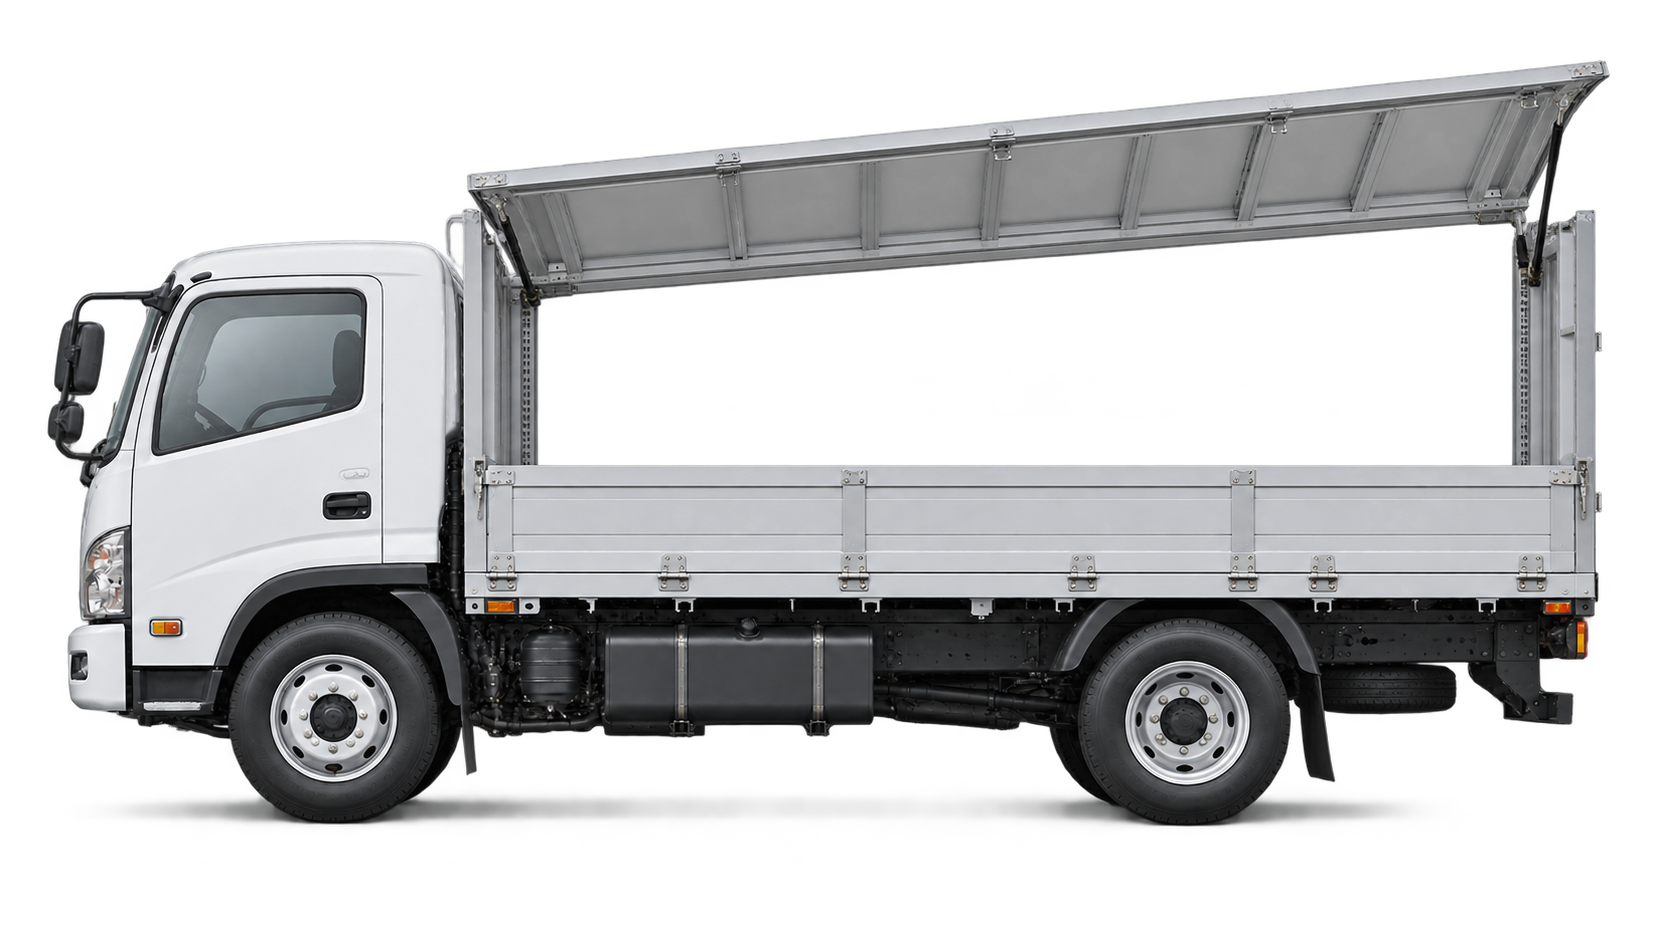
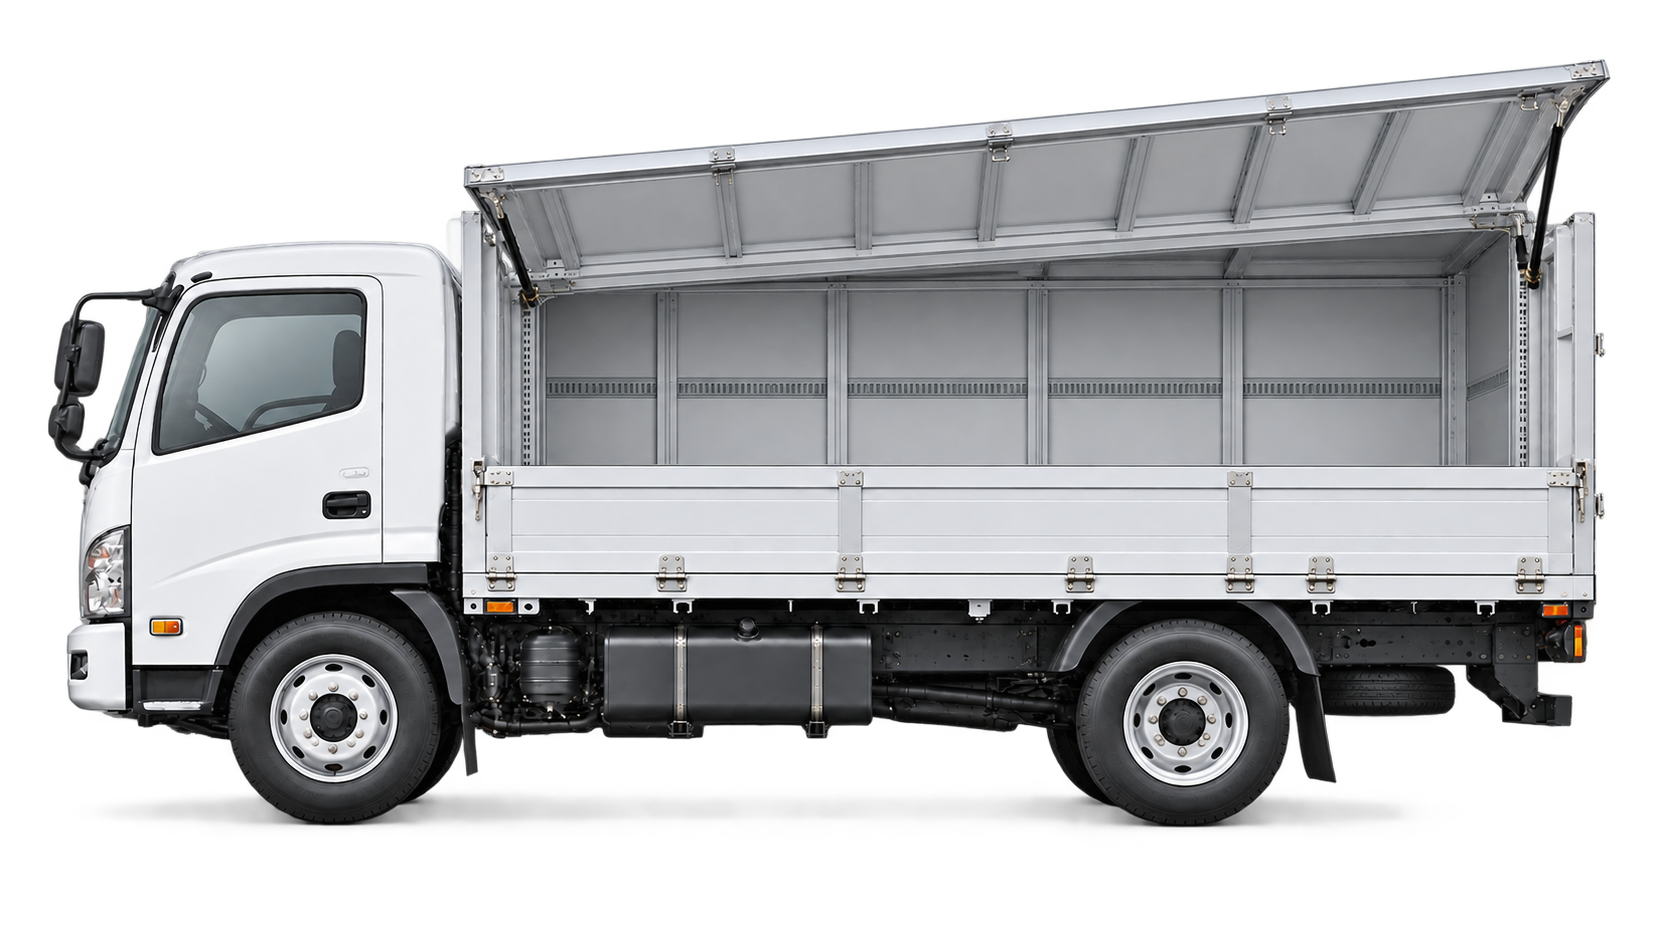
fix(qf): match truck types to Chotot two-line slots

diff --git a/src/prototype/listing/qf-model-images.css b/src/prototype/listing/qf-model-images.css
@@ -624,9 +624,9 @@
   outline-offset: 2px;
 }
 
-/* 트럭 유형 1뎁스 QF-122: 바이크 유형과 같은 초톳 슬롯 리듬을 사용한다.
-   차체가 긴 트럭은 60×40 contain 안에서 폭을 광학 보정하고, 카드·라벨 위치는
-   바이크와 동일한 76/84×102 및 14/21·600으로 고정한다. */
+/* 트럭 유형 1뎁스 QF-122: 초톳의 2줄 유형 슬롯 리듬을 사용한다.
+   PC는 기존 84×102 레일을 유지하고, 모바일은 QF-106b 실측값인
+   64×78 셀·64×40 이미지·56px 라벨·12/18·500으로 고정한다. */
 .marketplace.is-truck-category.is-qf-guazi .depth-rail.is-truck-type-row,
 .marketplace.is-truck-category.is-qf-guazi .depth-rail.is-truck-type-row .brand-carousel,
 .marketplace.is-truck-category.is-qf-guazi .depth-rail.is-truck-type-row .depth-rail-track {
@@ -685,32 +685,35 @@
   -webkit-line-clamp: 2;
 }
 
-/* 모바일은 기존 트럭 전용 76×84 규칙보다 한 단계 높은 특이도로 덮어써서
-   현재 바이크 유형 실측값(76×102 / 60×40 / 14·21·600)과 정확히 맞춘다. */
+/* 모바일 초톳 2줄 유형 슬롯: 86 = 위 2 + 셀 78 + 아래 6. */
 .marketplace.is-bbm-m.is-truck-category.is-qf-guazi.is-qf-plain .depth-rail.is-truck-image-row.is-truck-type-row,
 .marketplace.is-bbm-m.is-truck-category.is-qf-guazi.is-qf-plain .depth-rail.is-truck-image-row.is-truck-type-row .brand-carousel,
 .marketplace.is-bbm-m.is-truck-category.is-qf-guazi.is-qf-plain .depth-rail.is-truck-image-row.is-truck-type-row .depth-rail-track {
-  height: 102px;
-  min-height: 102px;
+  height: 86px;
+  min-height: 86px;
+}
+
+.marketplace.is-bbm-m.is-truck-category.is-qf-guazi.is-qf-plain .bbm-content-head.is-chotot .bbm-quick-slot:has(> .depth-rail.is-truck-image-row.is-truck-type-row) {
+  height: 86px;
 }
 
 .marketplace.is-bbm-m.is-truck-category.is-qf-guazi.is-qf-plain .depth-rail.is-truck-image-row.is-truck-type-row .depth-card.is-truck-depth:has(> .depth-card-media:not(.is-brand)) {
-  width: 76px;
-  height: 102px;
-  flex-basis: 76px;
+  width: 64px;
+  height: 78px;
+  flex-basis: 64px;
 }
 
 .marketplace.is-bbm-m.is-truck-category.is-qf-guazi.is-qf-plain .depth-rail.is-truck-image-row.is-truck-type-row .depth-card.is-truck-depth:has(> .depth-card-media:not(.is-brand)) > .depth-card-media:not(.is-brand) {
-  width: 60px;
+  width: 64px;
   height: 40px;
-  margin-top: 6px;
+  margin-top: 0;
 }
 
 .marketplace.is-bbm-m.is-truck-category.is-qf-guazi.is-qf-plain .depth-rail.is-truck-image-row.is-truck-type-row .depth-card.is-truck-depth:has(> .depth-card-media:not(.is-brand)) > .depth-card-label {
-  width: 68px;
-  max-height: 42px;
-  margin-top: 14px;
-  font-size: 14px;
-  font-weight: 600;
-  line-height: 21px;
+  width: 56px;
+  max-height: 36px;
+  margin-top: 2px;
+  font-size: 12px;
+  font-weight: 500;
+  line-height: 18px;
 }

diff --git a/src/prototype/listing/index.tsx b/src/prototype/listing/index.tsx
@@ -281,6 +281,11 @@ const initialTruckFormatSelection = () => {
 };
 
 const truckQuickLabelAliases: Record<string, string> = {
+  "카고(화물)트럭": "카고트럭",
+  "냉장·냉동차": "냉장·냉동",
+  "크레인·고소작업차": "크레인·고소",
+  "환경·폐기물차": "환경·폐기물",
+  "견인·운송차": "견인·운송",
   "캠핑카/캠핑 트레일러": "캠핑카·트레일러",
   "폐기/음식물수송": "폐기물·음식물",
   "차량견인/운송": "견인·운송",

diff --git a/docs/truck/truck_type_bike_style_qf122.md b/docs/truck/truck_type_bike_style_qf122.md
@@ -1,18 +1,22 @@
 # 트럭 유형 이미지 레일 QF-122
 
 - 적용일: 2026-10-11
-- 목적: 트럭 카테고리 첫 뎁스를 바이크 유형 레일과 같은 초톳 슬롯 리듬으로 통일
+- 목적: 트럭 카테고리 첫 뎁스를 초톳의 모바일 2줄 유형 슬롯 리듬으로 통일
 - 자산: `public/assets/truck/types/autoscout-v01/`
 
 ## 슬롯
 
 | 구분 | 모바일 | PC |
 |---|---:|---:|
-| 셀 | 76×102 | 84×102 |
-| 이미지 영역 | 셀 안 40px 높이 | 셀 안 40px 높이 |
+| 셀 | 64×78 (레일 86) | 84×102 |
+| 이미지 영역 | 64×40 | 셀 안 40px 높이 |
 | 시작 여백 | 16 | 20 |
 | 셀 간격 | 8 | 8 |
-| 명칭 | 14/21·600·최대 2줄 | 14/21·600·최대 2줄 |
+| 명칭 | 폭 56, 12/18·500·최대 2줄 | 14/21·600·최대 2줄 |
+
+모바일 표시는 정식 분류값을 바꾸지 않고 `카고트럭`, `냉장·냉동`,
+`크레인·고소`, `환경·폐기물`, `견인·운송`처럼 짧게 보여 두 글자만
+둘째 줄에 남는 현상을 막는다. 선택값·URL·접근성 명칭은 원문을 유지한다.
 
 ## 이미지 불변 조건
 
@@ -26,5 +30,8 @@
 ## 14종
 
 `카고 · 열린 윙바디 · 냉장냉동 · 한국형 덤프 · 크레인고소 · 탱크로리 · 환경폐기물 · 견인운송 · 트랙터 헤드 · 트레일러 · 특수차 · 버스 · 캠핑카카라반 · 기타 화물차`
+
+윙바디는 근측 대형 윙을 지붕 힌지에서 약 55~60도로 열고, 전장 화물실과
+2개의 지지 스트럿을 노출해 64×40 축소 상태에서도 탑차·카고와 구별되게 한다.
 
 세부 형식은 이미지 반복을 줄이기 위해 기존 텍스트 칩 레일을 유지한다.

diff --git a/reports/codex-truck-category-images-bike-style.md b/reports/codex-truck-category-images-bike-style.md
@@ -31,3 +31,12 @@
 ## 배포 후 확인
 
 - GitHub Pages 공개 주소에서 390px 첫 5개 카드와 트레일러 카드의 광학 크기를 다시 확인한다.
+
+## QF-122a · 초톳 2줄 슬롯 재교정
+
+- 모바일을 초톳 2줄 유형 슬롯 수치인 셀 64×78, 레일 86, 이미지 64×40,
+  라벨 폭 56, 12/18·500으로 재교정했다.
+- 정식 데이터명은 유지하고 모바일 표시명만 줄여 `트럭`처럼 두 글자만
+  둘째 줄에 떨어지는 문제를 제거했다.
+- 윙바디는 근측 윙을 55~60도로 열고 전장 화물실·스트럿이 드러나는
+  좌향 정측면 이미지로 다시 제작했다.
